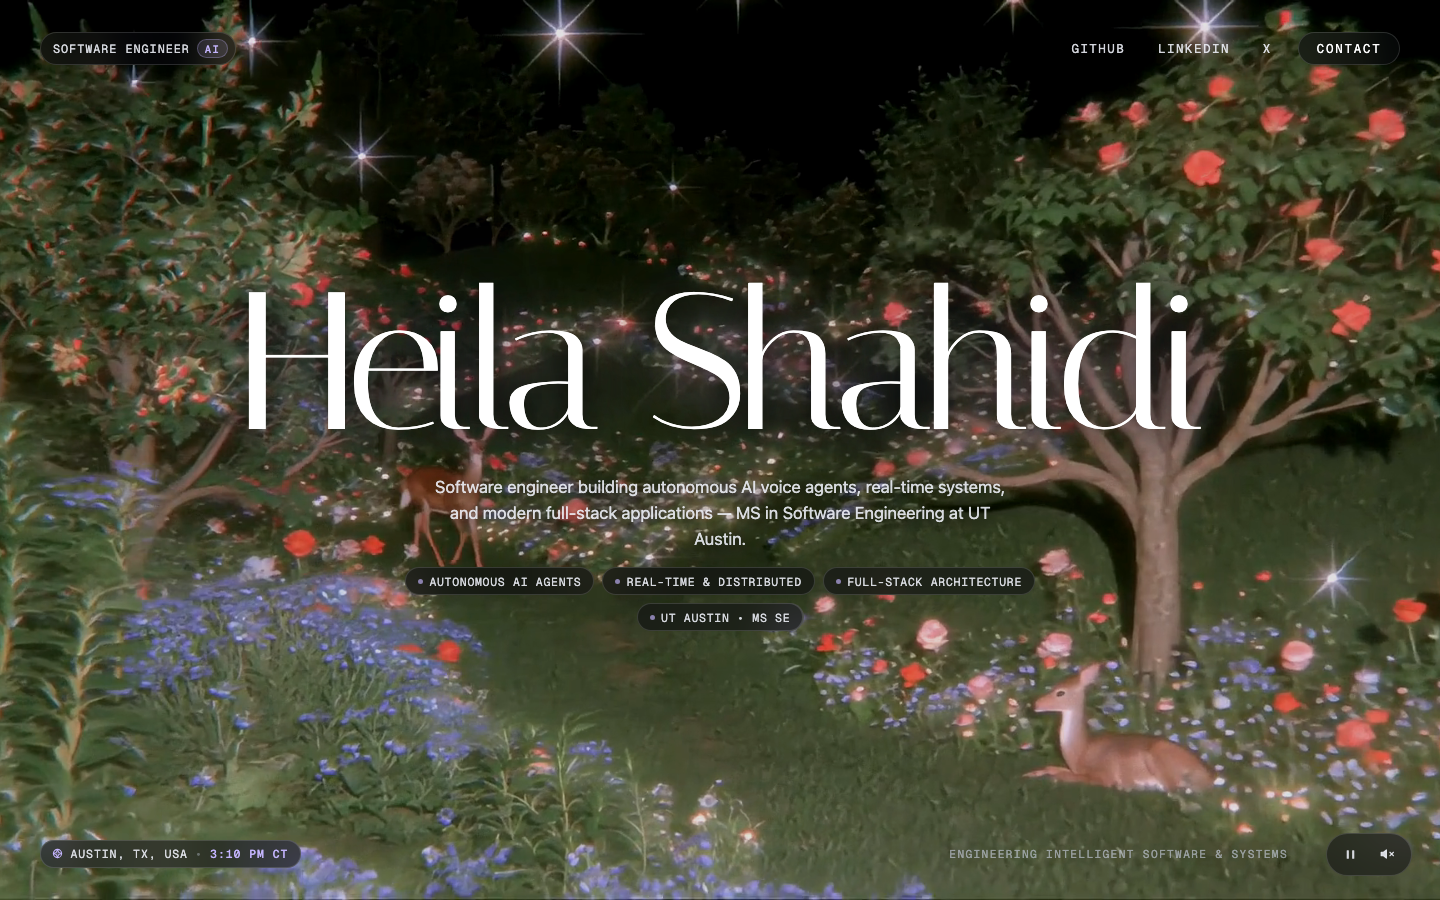
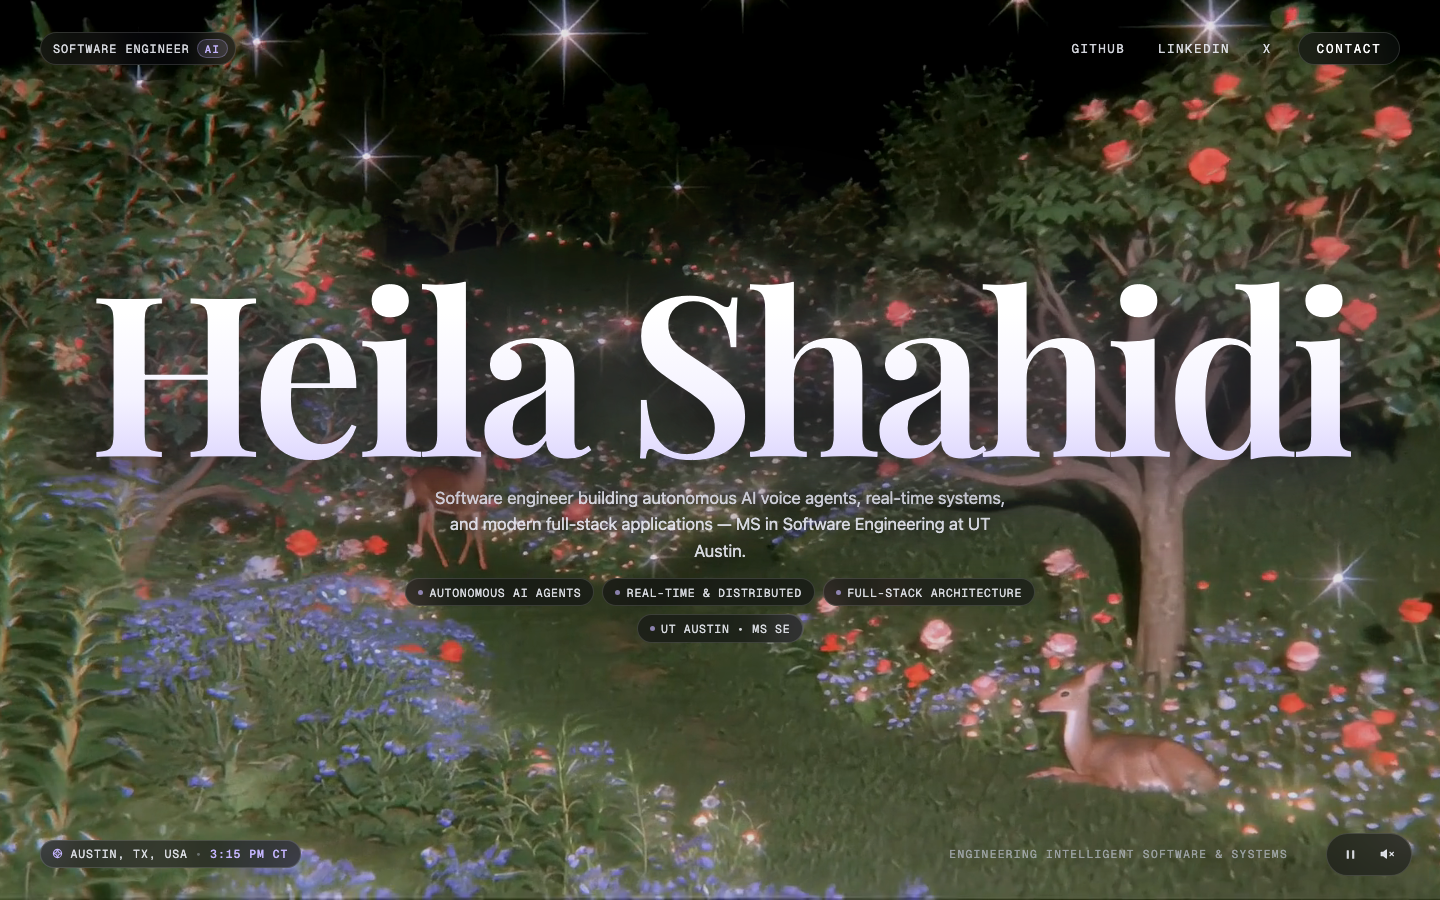
feat: elevate hero heading with larger scale, higher weight, and luminous gradient

diff --git a/app/page.tsx b/app/page.tsx
@@ -124,20 +124,22 @@ const styles = stylex.create({
   nameHeading: {
     fontFamily: tokens.fontDisplay,
     fontSize: {
-      default: 'clamp(5.2rem, 13.5vw, 12.5rem)',
-      '@media (max-width: 640px)': 'clamp(3.4rem, 14vw, 5.4rem)',
+      default: 'clamp(6.2rem, 15.5vw, 14.5rem)',
+      '@media (max-width: 640px)': 'clamp(3.8rem, 15.5vw, 6rem)',
     },
-    fontWeight: 400,
+    fontWeight: 600,
     letterSpacing: {
-      default: '-0.04em',
-      '@media (max-width: 640px)': '-0.025em',
+      default: '-0.035em',
+      '@media (max-width: 640px)': '-0.02em',
     },
-    lineHeight: 0.94,
-    color: tokens.colorTextPrimary,
+    lineHeight: 0.92,
+    backgroundImage: 'linear-gradient(180deg, #ffffff 25%, #f5f3ff 65%, #ddd6fe 100%)',
+    WebkitBackgroundClip: 'text',
+    WebkitTextFillColor: 'transparent',
+    filter:
+      'drop-shadow(0 4px 32px rgba(0, 0, 0, 0.98)) drop-shadow(0 0 65px rgba(196, 181, 253, 0.45))',
     margin: 0,
     userSelect: 'none',
-    textShadow:
-      '0 2px 32px rgba(0, 0, 0, 0.98), 0 0 80px rgba(196, 181, 253, 0.4), 0 0 140px rgba(167, 139, 250, 0.25)',
   },
   footer: {
     position: 'relative',

diff --git a/app/layout.tsx b/app/layout.tsx
@@ -1,11 +1,12 @@
 import type { Metadata, Viewport } from 'next';
-import { Geist_Mono, Italiana } from 'next/font/google';
+import { Geist_Mono, Playfair_Display } from 'next/font/google';
 import './globals.css';
 
-const italiana = Italiana({
+const playfair = Playfair_Display({
   variable: '--font-display',
   subsets: ['latin'],
-  weight: '400',
+  weight: ['400', '600', '700'],
+  display: 'swap',
 });
 
 const geistMono = Geist_Mono({
@@ -47,7 +48,7 @@ export default function RootLayout({
   children: React.ReactNode;
 }>) {
   return (
-    <html lang="en" className={`${italiana.variable} ${geistMono.variable}`}>
+    <html lang="en" className={`${playfair.variable} ${geistMono.variable}`}>
       <body>{children}</body>
     </html>
   );

diff --git a/app/tokens.stylex.ts b/app/tokens.stylex.ts
@@ -11,7 +11,7 @@ export const tokens = stylex.defineVars({
   colorBorderHover: 'rgba(255, 255, 255, 0.32)',
   colorGlassBg: 'rgba(8, 8, 14, 0.52)',
   colorGlassBgHover: 'rgba(20, 20, 32, 0.76)',
-  fontDisplay: 'var(--font-display), "Italiana", "Cormorant Garamond", Georgia, serif',
+  fontDisplay: 'var(--font-display), "Playfair Display", "Italiana", Georgia, serif',
   fontSans: 'system-ui, -apple-system, BlinkMacSystemFont, "Segoe UI", Roboto, sans-serif',
   fontMono: 'var(--font-geist-mono), ui-monospace, SFMono-Regular, monospace',
 });
